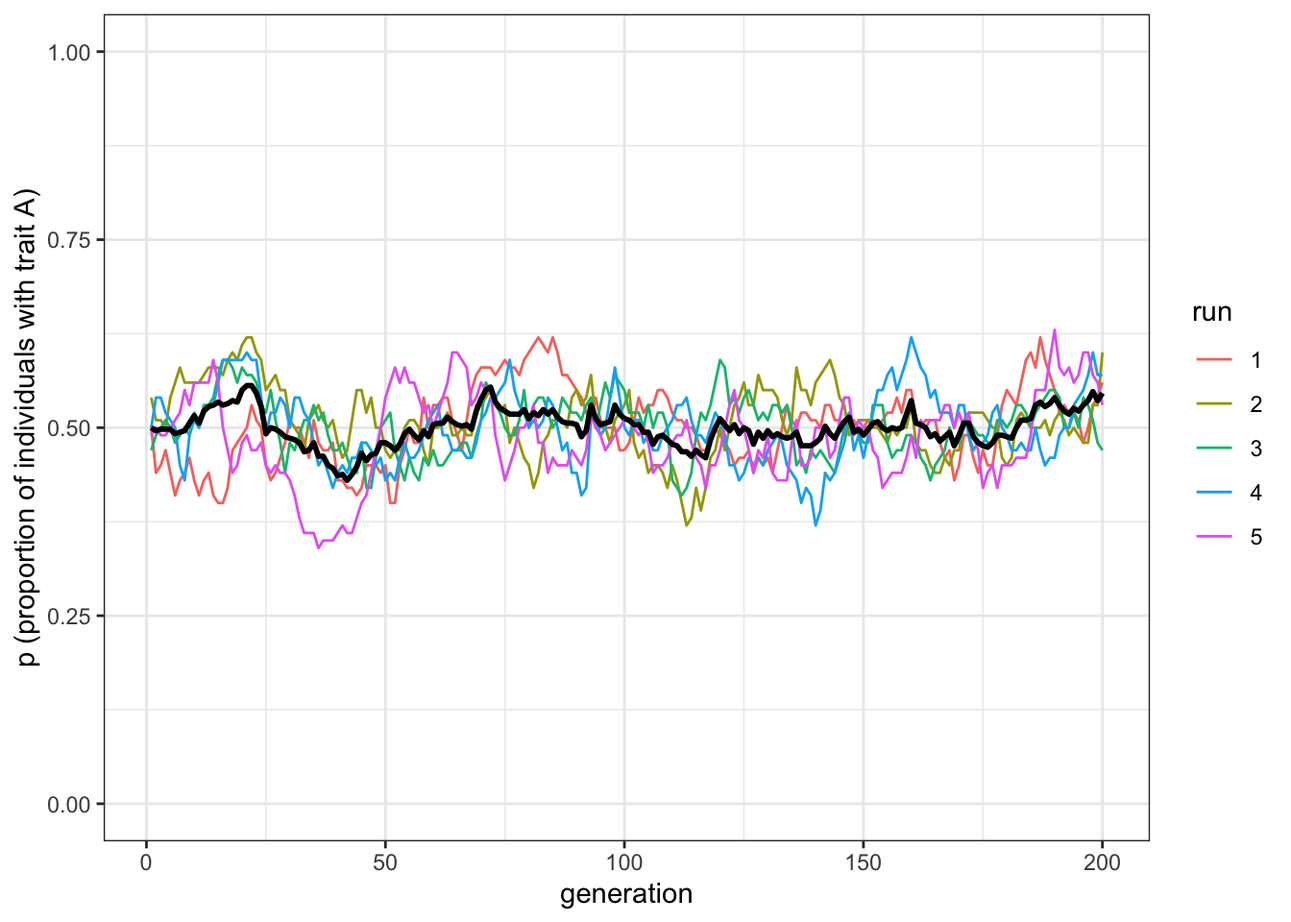
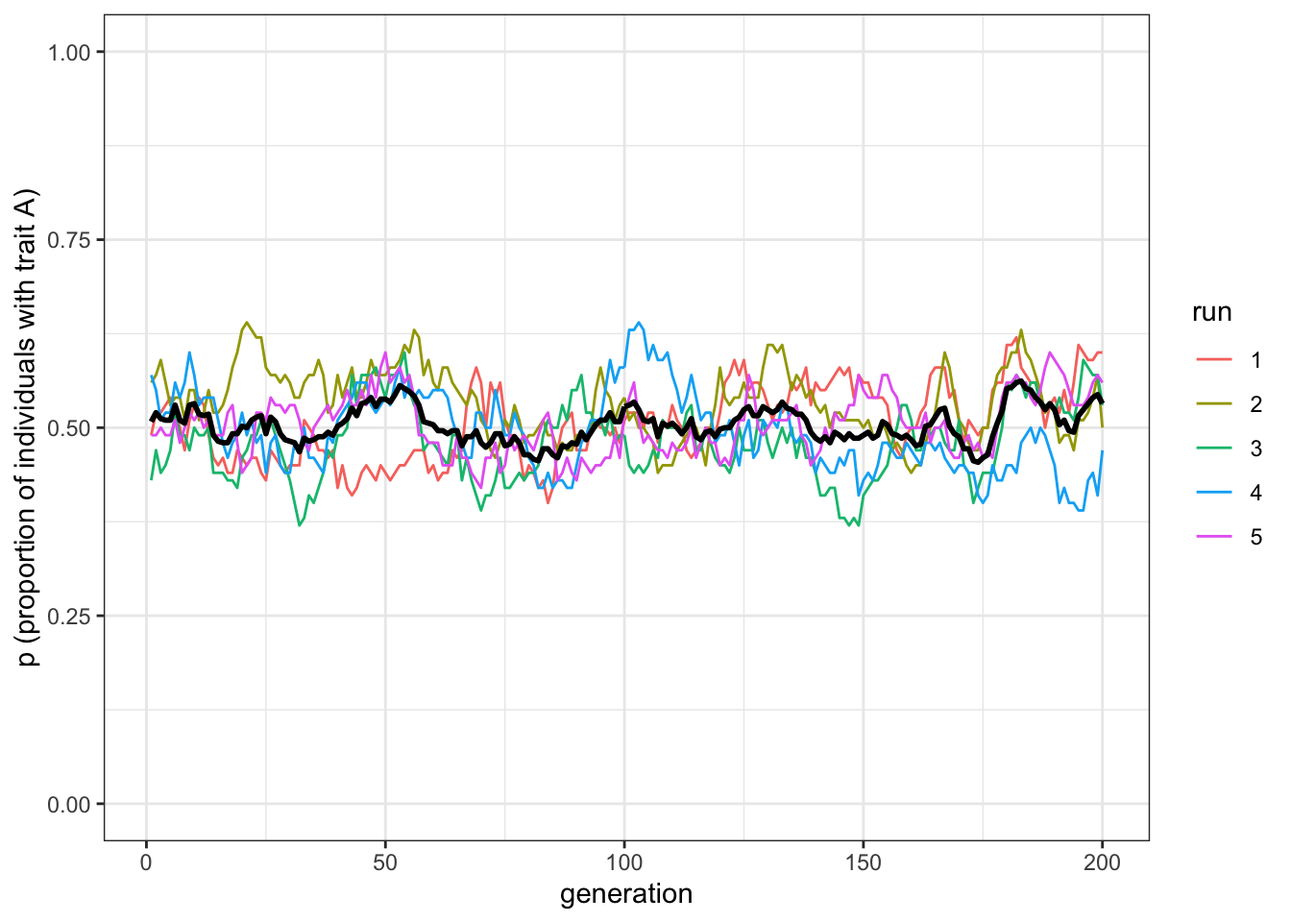
chapter 2 done

Changed region(s): [[0.0938, 0.3438, 0.875, 0.5938]]

diff --git a/_book/unbiased-and-biased-mutation.html b/_book/unbiased-and-biased-mutation.html
@@ -4,11 +4,11 @@
 
   <meta charset="utf-8" />
   <meta http-equiv="X-UA-Compatible" content="IE=edge" />
-  <title>2 Unbiased and biased mutation | Individual-based models of cultural evolution</title>
+  <title>1 Unbiased and biased mutation | Individual-based models of cultural evolution</title>
   <meta name="description" content="A minimal working structure for the book" />
   <meta name="generator" content="bookdown 0.11 and GitBook 2.6.7" />
 
-  <meta property="og:title" content="2 Unbiased and biased mutation | Individual-based models of cultural evolution" />
+  <meta property="og:title" content="1 Unbiased and biased mutation | Individual-based models of cultural evolution" />
   <meta property="og:type" content="book" />
   
   
@@ -16,7 +16,7 @@
   
 
   <meta name="twitter:card" content="summary" />
-  <meta name="twitter:title" content="2 Unbiased and biased mutation | Individual-based models of cultural evolution" />
+  <meta name="twitter:title" content="1 Unbiased and biased mutation | Individual-based models of cultural evolution" />
   
   <meta name="twitter:description" content="A minimal working structure for the book" />
   
@@ -33,7 +33,7 @@
   <meta name="apple-mobile-web-app-status-bar-style" content="black" />
   
   
-<link rel="prev" href="unbiased-transmission.html">
+<link rel="prev" href="index.html">
 <link rel="next" href="biased-transmission-directcontent-bias.html">
 <script src="libs/jquery-2.2.3/jquery.min.js"></script>
 <link href="libs/gitbook-2.6.7/css/style.css" rel="stylesheet" />
@@ -106,30 +106,29 @@ code > span.in { color: #60a0b0; font-weight: bold; font-style: italic; } /* Inf
 
 <li class="divider"></li>
 <li class="chapter" data-level="" data-path="index.html"><a href="index.html"><i class="fa fa-check"></i>Introduction</a></li>
-<li class="part"><span><b>Basics</b></span></li>
-<li class="chapter" data-level="1" data-path="unbiased-transmission.html"><a href="unbiased-transmission.html"><i class="fa fa-check"></i><b>1</b> Unbiased transmission</a><ul>
-<li class="chapter" data-level="1.1" data-path="unbiased-transmission.html"><a href="unbiased-transmission.html#initialising-the-simulation"><i class="fa fa-check"></i><b>1.1</b> Initialising the simulation</a></li>
-<li class="chapter" data-level="1.2" data-path="unbiased-transmission.html"><a href="unbiased-transmission.html#execute-generation-turn-over-many-times"><i class="fa fa-check"></i><b>1.2</b> Execute generation turn-over many times</a></li>
-<li class="chapter" data-level="1.3" data-path="unbiased-transmission.html"><a href="unbiased-transmission.html#plotting-the-model-results"><i class="fa fa-check"></i><b>1.3</b> Plotting the model results</a></li>
-<li class="chapter" data-level="1.4" data-path="unbiased-transmission.html"><a href="unbiased-transmission.html#write-a-function-to-wrap-the-model-code"><i class="fa fa-check"></i><b>1.4</b> Write a function to wrap the model code</a></li>
-<li class="chapter" data-level="1.5" data-path="unbiased-transmission.html"><a href="unbiased-transmission.html#run-several-independent-simulations-and-plot-their-results"><i class="fa fa-check"></i><b>1.5</b> Run several independent simulations and plot their results</a></li>
-<li class="chapter" data-level="1.6" data-path="unbiased-transmission.html"><a href="unbiased-transmission.html#varying-initial-conditions"><i class="fa fa-check"></i><b>1.6</b> Varying initial conditions</a></li>
-<li class="chapter" data-level="1.7" data-path="unbiased-transmission.html"><a href="unbiased-transmission.html#summary-of-the-model"><i class="fa fa-check"></i><b>1.7</b> Summary of the model</a></li>
-<li class="chapter" data-level="1.8" data-path="unbiased-transmission.html"><a href="unbiased-transmission.html#analytical-appendix"><i class="fa fa-check"></i><b>1.8</b> Analytical appendix</a></li>
+<li class="part"><span><b>Basics</b></span><ul>
+<li class="chapter" data-level="0.1" data-path="index.html"><a href="index.html#initialising-the-simulation"><i class="fa fa-check"></i><b>0.1</b> Initialising the simulation</a></li>
+<li class="chapter" data-level="0.2" data-path="index.html"><a href="index.html#execute-generation-turn-over-many-times"><i class="fa fa-check"></i><b>0.2</b> Execute generation turn-over many times</a></li>
+<li class="chapter" data-level="0.3" data-path="index.html"><a href="index.html#plotting-the-model-results"><i class="fa fa-check"></i><b>0.3</b> Plotting the model results</a></li>
+<li class="chapter" data-level="0.4" data-path="index.html"><a href="index.html#write-a-function-to-wrap-the-model-code"><i class="fa fa-check"></i><b>0.4</b> Write a function to wrap the model code</a></li>
+<li class="chapter" data-level="0.5" data-path="index.html"><a href="index.html#run-several-independent-simulations-and-plot-their-results"><i class="fa fa-check"></i><b>0.5</b> Run several independent simulations and plot their results</a></li>
+<li class="chapter" data-level="0.6" data-path="index.html"><a href="index.html#varying-initial-conditions"><i class="fa fa-check"></i><b>0.6</b> Varying initial conditions</a></li>
+<li class="chapter" data-level="0.7" data-path="index.html"><a href="index.html#summary-of-the-model"><i class="fa fa-check"></i><b>0.7</b> Summary of the model</a></li>
+<li class="chapter" data-level="0.8" data-path="index.html"><a href="index.html#analytical-appendix"><i class="fa fa-check"></i><b>0.8</b> Analytical appendix</a></li>
 </ul></li>
-<li class="chapter" data-level="2" data-path="unbiased-and-biased-mutation.html"><a href="unbiased-and-biased-mutation.html"><i class="fa fa-check"></i><b>2</b> Unbiased and biased mutation</a><ul>
-<li class="chapter" data-level="2.1" data-path="unbiased-and-biased-mutation.html"><a href="unbiased-and-biased-mutation.html#unbiased-mutation"><i class="fa fa-check"></i><b>2.1</b> Unbiased mutation</a></li>
-<li class="chapter" data-level="2.2" data-path="unbiased-and-biased-mutation.html"><a href="unbiased-and-biased-mutation.html#biased-mutation"><i class="fa fa-check"></i><b>2.2</b> Biased mutation</a></li>
-<li class="chapter" data-level="2.3" data-path="unbiased-and-biased-mutation.html"><a href="unbiased-and-biased-mutation.html#summary-of-the-model-1"><i class="fa fa-check"></i><b>2.3</b> Summary of the model</a></li>
-<li class="chapter" data-level="2.4" data-path="unbiased-and-biased-mutation.html"><a href="unbiased-and-biased-mutation.html#analytical-appendix-1"><i class="fa fa-check"></i><b>2.4</b> Analytical appendix</a></li>
+<li class="chapter" data-level="1" data-path="unbiased-and-biased-mutation.html"><a href="unbiased-and-biased-mutation.html"><i class="fa fa-check"></i><b>1</b> Unbiased and biased mutation</a><ul>
+<li class="chapter" data-level="1.1" data-path="unbiased-and-biased-mutation.html"><a href="unbiased-and-biased-mutation.html#unbiased-mutation"><i class="fa fa-check"></i><b>1.1</b> Unbiased mutation</a></li>
+<li class="chapter" data-level="1.2" data-path="unbiased-and-biased-mutation.html"><a href="unbiased-and-biased-mutation.html#biased-mutation"><i class="fa fa-check"></i><b>1.2</b> Biased mutation</a></li>
+<li class="chapter" data-level="1.3" data-path="unbiased-and-biased-mutation.html"><a href="unbiased-and-biased-mutation.html#summary-of-the-model-1"><i class="fa fa-check"></i><b>1.3</b> Summary of the model</a></li>
+<li class="chapter" data-level="1.4" data-path="unbiased-and-biased-mutation.html"><a href="unbiased-and-biased-mutation.html#analytical-appendix-1"><i class="fa fa-check"></i><b>1.4</b> Analytical appendix</a></li>
 </ul></li>
-<li class="chapter" data-level="3" data-path="biased-transmission-directcontent-bias.html"><a href="biased-transmission-directcontent-bias.html"><i class="fa fa-check"></i><b>3</b> Biased transmission (direct/content bias)</a><ul>
-<li class="chapter" data-level="3.1" data-path="biased-transmission-directcontent-bias.html"><a href="biased-transmission-directcontent-bias.html#summary-of-the-model-2"><i class="fa fa-check"></i><b>3.1</b> Summary of the model</a></li>
-<li class="chapter" data-level="3.2" data-path="biased-transmission-directcontent-bias.html"><a href="biased-transmission-directcontent-bias.html#analytical-appendix-2"><i class="fa fa-check"></i><b>3.2</b> Analytical appendix</a></li>
+<li class="chapter" data-level="2" data-path="biased-transmission-directcontent-bias.html"><a href="biased-transmission-directcontent-bias.html"><i class="fa fa-check"></i><b>2</b> Biased transmission (direct/content bias)</a><ul>
+<li class="chapter" data-level="2.1" data-path="biased-transmission-directcontent-bias.html"><a href="biased-transmission-directcontent-bias.html#summary-of-the-model-2"><i class="fa fa-check"></i><b>2.1</b> Summary of the model</a></li>
+<li class="chapter" data-level="2.2" data-path="biased-transmission-directcontent-bias.html"><a href="biased-transmission-directcontent-bias.html#analytical-appendix-2"><i class="fa fa-check"></i><b>2.2</b> Analytical appendix</a></li>
 </ul></li>
-<li class="chapter" data-level="4" data-path="biased-transmission-conformist-bias.html"><a href="biased-transmission-conformist-bias.html"><i class="fa fa-check"></i><b>4</b> Biased transmission (conformist bias)</a><ul>
-<li class="chapter" data-level="4.1" data-path="biased-transmission-conformist-bias.html"><a href="biased-transmission-conformist-bias.html#summary-of-model-4"><i class="fa fa-check"></i><b>4.1</b> Summary of Model 4</a></li>
-<li class="chapter" data-level="4.2" data-path="biased-transmission-conformist-bias.html"><a href="biased-transmission-conformist-bias.html#analytic-appendix"><i class="fa fa-check"></i><b>4.2</b> Analytic appendix</a></li>
+<li class="chapter" data-level="3" data-path="biased-transmission-conformist-bias.html"><a href="biased-transmission-conformist-bias.html"><i class="fa fa-check"></i><b>3</b> Biased transmission (conformist bias)</a><ul>
+<li class="chapter" data-level="3.1" data-path="biased-transmission-conformist-bias.html"><a href="biased-transmission-conformist-bias.html#summary-of-model-4"><i class="fa fa-check"></i><b>3.1</b> Summary of Model 4</a></li>
+<li class="chapter" data-level="3.2" data-path="biased-transmission-conformist-bias.html"><a href="biased-transmission-conformist-bias.html#analytic-appendix"><i class="fa fa-check"></i><b>3.2</b> Analytic appendix</a></li>
 </ul></li>
 <li class="divider"></li>
 <li><a href="https://github.com/rstudio/bookdown" target="blank">Published with bookdown</a></li>
@@ -152,16 +151,16 @@ code > span.in { color: #60a0b0; font-weight: bold; font-style: italic; } /* Inf
 
             <section class="normal" id="section-">
 <div id="unbiased-and-biased-mutation" class="section level1">
-<h1><span class="header-section-number">2</span> Unbiased and biased mutation</h1>
+<h1><span class="header-section-number">1</span> Unbiased and biased mutation</h1>
 <p>Evolution doesn’t work without a source of variation that introduces new variation upon which selection, drift and other processes can act. In genetic evolution, mutation is almost always blind with respect to function. Beneficial genetic mutations are no more likely to arise when they are needed than when they are not needed - in fact most genetic mutations are neutral or detrimental to an organism. Cultural evolution is more interesting, in that novel variation may sometimes be directed to solve specific problems, or systematically biased due to features of our cognition. In the models below we’ll simulate both unbiased and biased mutation.</p>
 <div id="unbiased-mutation" class="section level2">
-<h2><span class="header-section-number">2.1</span> Unbiased mutation</h2>
+<h2><span class="header-section-number">1.1</span> Unbiased mutation</h2>
 <p>First we will simulate unbiased mutation in the same basic model as used in the previous chapter. We’ll remove unbiased transmission to see the effect of unbiased mutation alone.</p>
-<p>As in the previous model, we assume <span class="math inline">\(N\)</span> individuals each of whom possesses one of two cultural traits, denoted <span class="math inline">\(A\)</span> and <span class="math inline">\(B\)</span>. In each generation from <span class="math inline">\(t = 1\)</span> to <span class="math inline">\(t = t_{\text{max}}\)</span>, the <span class="math inline">\(N\)</span> individuals are replaced with <span class="math inline">\(N\)</span> new individuals Instead of random copying, each individual now gives rise to a new individual with exactly the same cultural trait as them. (Another way of looking at this is in terms of timesteps, such as years: the same <span class="math inline">\(N\)</span> individual live for <span class="math inline">\(t_{\text{max}}\)</span> years, and keep their cultural trait from one year to the next.)</p>
-<p>Each generation, there is a probability <span class="math inline">\(\mu\)</span> that each individual mutates from their current trait to the other trait. This probability applies to each individual independently; whether an individual mutates has no bearing on whether or how many other individuals have mutated. On average, that means that <span class="math inline">\(\mu N\)</span> individuals mutate each generation. Like in the previous model, we are interested in tracking the proportion <span class="math inline">\(p\)</span> of agents with trait <span class="math inline">\(A\)</span> over time.</p>
-<p>We’ll wrap this in a function called <code>unbiased_mutation()</code>, using much of the same code as <code>unbiased_transmission_3()</code>. Now though we have an extra parameter, <span class="math inline">\(\mu\)</span>, to specify the probability of mutation. As before, we need to call the tidyverse library, and set a seed for the random number genrator, so the results will be exactly the same each time we rerun the code.</p>
+<p>As in the previous model, we assume <span class="math inline">\(N\)</span> individuals each of whom possesses one of two non-overlapping cultural traits, denoted <span class="math inline">\(A\)</span> and <span class="math inline">\(B\)</span>. In each generation, from <span class="math inline">\(t = 1\)</span> to <span class="math inline">\(t = t_{\text{max}}\)</span>, the <span class="math inline">\(N\)</span> individuals are replaced with <span class="math inline">\(N\)</span> new individuals. Instead of random copying, each individual now gives rise to a new individual with exactly the same cultural trait as them. (Another way of looking at this is in terms of timesteps, such as years: the same <span class="math inline">\(N\)</span> individual live for <span class="math inline">\(t_{\text{max}}\)</span> years, and keep their cultural trait from one year to the next.)</p>
+<p>At each generation, however, there is a probability <span class="math inline">\(\mu\)</span> that each individual mutates from their current trait to the other trait. Vegetarian individuals can decide to eat animal products, and vice versa. Remember, this is not copied from other individuals, as in the previous model, but can be thought as an individual decision. another way to say it, is that the probability of changing trait applies to each individual independently; whether an individual mutates has no bearing on whether or how many other individuals have mutated. On average, that means that <span class="math inline">\(\mu N\)</span> individuals mutate each generation. Like in the previous model, we are interested in tracking the proportion <span class="math inline">\(p\)</span> of agents with trait <span class="math inline">\(A\)</span> over time.</p>
+<p>We’ll wrap this in a function called <code>unbiased_mutation()</code>, using much of the same code as <code>unbiased_transmission_3()</code>. As before, we need to call the tidyverse library, and set a seed for the random number genrator, so the results will be exactly the same each time we rerun the code.</p>
 <div class="sourceCode"><pre class="sourceCode r"><code class="sourceCode r"><span class="kw">library</span>(tidyverse)
-<span class="kw">set.seed</span>(<span class="dv">100</span>)
+<span class="kw">set.seed</span>(<span class="dv">111</span>)
 
 unbiased_mutation &lt;-<span class="st"> </span><span class="cf">function</span>(N, mu, p_<span class="dv">0</span>, t_max, r_max) {
   output &lt;-<span class="st"> </span><span class="kw">tibble</span>(<span class="dt">generation =</span> <span class="kw">rep</span>(<span class="dv">1</span><span class="op">:</span>t_max, r_max), <span class="dt">p =</span> <span class="kw">rep</span>(<span class="ot">NA</span>, t_max <span class="op">*</span><span class="st"> </span>r_max), <span class="dt">run =</span> <span class="kw">as.factor</span>(<span class="kw">rep</span>(<span class="dv">1</span><span class="op">:</span>r_max, <span class="dt">each =</span> t_max))) <span class="co"># create the output tibble</span>
@@ -175,37 +174,37 @@ unbiased_mutation &lt;-<span class="st"> </span><span class="cf">function</span>
 
       mutate &lt;-<span class="st"> </span><span class="kw">sample</span>(<span class="kw">c</span>(<span class="ot">TRUE</span>, <span class="ot">FALSE</span>), N, <span class="dt">prob =</span> <span class="kw">c</span>(mu, <span class="dv">1</span> <span class="op">-</span><span class="st"> </span>mu), <span class="dt">replace =</span> <span class="ot">TRUE</span>) <span class="co"># find &#39;mutant&#39; individuals</span>
 
-      <span class="cf">if</span> (<span class="kw">nrow</span>(population[mutate <span class="op">&amp;</span><span class="st"> </span>previous_population<span class="op">$</span>trait <span class="op">==</span><span class="st"> &quot;A&quot;</span>, ]) <span class="op">&gt;</span><span class="st"> </span><span class="dv">0</span>) {
-        population[mutate <span class="op">&amp;</span><span class="st"> </span>previous_population<span class="op">$</span>trait <span class="op">==</span><span class="st"> &quot;A&quot;</span>, ]<span class="op">$</span>trait &lt;-<span class="st"> &quot;B&quot;</span> <span class="co"># if individual was A and mutates, flip to B</span>
+      <span class="cf">if</span> (<span class="kw">nrow</span>(population[mutate <span class="op">&amp;</span><span class="st"> </span>previous_population<span class="op">$</span>trait <span class="op">==</span><span class="st"> &quot;A&quot;</span>, ]) <span class="op">&gt;</span><span class="st"> </span><span class="dv">0</span>) { <span class="co"># if there are &#39;mutant&#39; from A to B</span>
+        population[mutate <span class="op">&amp;</span><span class="st"> </span>previous_population<span class="op">$</span>trait <span class="op">==</span><span class="st"> &quot;A&quot;</span>, ]<span class="op">$</span>trait &lt;-<span class="st"> &quot;B&quot;</span> <span class="co"># then flip them to B</span>
       }
 
-      <span class="cf">if</span> (<span class="kw">nrow</span>(population[mutate <span class="op">&amp;</span><span class="st"> </span>previous_population<span class="op">$</span>trait <span class="op">==</span><span class="st"> &quot;B&quot;</span>, ]) <span class="op">&gt;</span><span class="st"> </span><span class="dv">0</span>) {
-        population[mutate <span class="op">&amp;</span><span class="st"> </span>previous_population<span class="op">$</span>trait <span class="op">==</span><span class="st"> &quot;B&quot;</span>, ]<span class="op">$</span>trait &lt;-<span class="st"> &quot;A&quot;</span> <span class="co"># if individual was B and mutates, flip to A</span>
+      <span class="cf">if</span> (<span class="kw">nrow</span>(population[mutate <span class="op">&amp;</span><span class="st"> </span>previous_population<span class="op">$</span>trait <span class="op">==</span><span class="st"> &quot;B&quot;</span>, ]) <span class="op">&gt;</span><span class="st"> </span><span class="dv">0</span>) { <span class="co"># if there are &#39;mutant&#39; from B to A</span>
+        population[mutate <span class="op">&amp;</span><span class="st"> </span>previous_population<span class="op">$</span>trait <span class="op">==</span><span class="st"> &quot;B&quot;</span>, ]<span class="op">$</span>trait &lt;-<span class="st"> &quot;A&quot;</span> <span class="co"># then flip them to A</span>
       }
       output[output<span class="op">$</span>generation <span class="op">==</span><span class="st"> </span>t <span class="op">&amp;</span><span class="st"> </span>output<span class="op">$</span>run <span class="op">==</span><span class="st"> </span>r, ]<span class="op">$</span>p &lt;-<span class="st"> </span><span class="kw">sum</span>(population<span class="op">$</span>trait <span class="op">==</span><span class="st"> &quot;A&quot;</span>) <span class="op">/</span><span class="st"> </span>N <span class="co"># get p and put it into output slot for this generation t and run r</span>
     }
   }
   output <span class="co"># export data from function</span>
 }</code></pre></div>
-<p>The only changes from the previous model are the addition of <span class="math inline">\(\mu\)</span> in the function definition and new lines of code within the <code>for</code> loop on <span class="math inline">\(t\)</span> which replace the random copying command with unbiased mutation. Let’s examine these lines to see how they work.</p>
-<p>The most obvious way of implementing unbiased mutation - which is not done above - would have been to set up another <code>for</code> loop. We would cycle through each individual one by one, each time calculating whether it should mutate or not based on <span class="math inline">\(mu\)</span>. This would certainly work, but R is notoriously slow at loops. It’s always preferable in R, where possible, to use ‘vectorised’ code. That’s what is done above in our three added lines.</p>
-<p>Thus, we pre-specify the probability of mutating for each individual For that, we use again the function <code>sample()</code>, picking <span class="math inline">\(TRUE\)</span> (corresponding to be a mutant) or <span class="math inline">\(FALSE\)</span> (keeping the same cultural trait) for <span class="math inline">\(N\)</span> times. The draw, however, is not random: the probability of drawing <span class="math inline">\(TRUE\)</span> is equal to <span class="math inline">\(\mu\)</span>, and the probability to draw <span class="math inline">\(FALSE\)</span> is <span class="math inline">\(1-\mu\)</span>. You can think about the procedure in this way: each individual in the population flips a biased coin that has <span class="math inline">\(\mu\)</span> probability to land on, say, head, and <span class="math inline">\(1-\mu\)</span> to land on tail. If it land on head they change their cultural trait.</p>
-<p>After that, in the following lines, we actually change the traits for the ‘mutant’ individuals. We need to check (using the <code>if</code> conditional) whether there are individuals that change their trait, both from “A” to “B” and viceversa. This is because if there are not individuals changing their traits, we are trying to assign a new value to an empty tibble, and we get an error. To check, we make sure that the number of rows is higher than 0 (using <code>nrow()&gt;0</code> within the <code>if</code>).</p>
-<p>To plot the results, we can use the same function <code>plot_multiple_runs()</code> we already wrote for the previous model.</p>
+<p>The only changes from the previous model are the addition of <span class="math inline">\(\mu\)</span>, the parameter that specifies the probability of mutation, in the function definition and new lines of code within the <code>for</code> loop on <span class="math inline">\(t\)</span> which replace the random copying command with unbiased mutation. Let’s examine these lines to see how they work.</p>
+<p>The most obvious way of implementing unbiased mutation - which is not done above - would have been to set up another <code>for</code> loop. We would cycle through each individual one by one, each time calculating whether it should mutate or not based on <span class="math inline">\(mu\)</span>. This would certainly work, but R is notoriously slow at loops. It’s always preferable in R, where possible, to use ‘vectorised’ code. That’s what is done above in our three added lines, starting from <code>mutate &lt;- sample()</code>.</p>
+<p>First, we pre-specify the probability of mutating for each individual For that, we use again the function <code>sample()</code>, picking <span class="math inline">\(TRUE\)</span> (corresponding to be a mutant) or <span class="math inline">\(FALSE\)</span> (keeping the same cultural trait) for <span class="math inline">\(N\)</span> times. The draw, however, is not random: the probability of drawing <span class="math inline">\(TRUE\)</span> is equal to <span class="math inline">\(\mu\)</span>, and the probability to draw <span class="math inline">\(FALSE\)</span> is <span class="math inline">\(1-\mu\)</span>. You can think about the procedure in this way: each individual in the population flips a biased coin that has <span class="math inline">\(\mu\)</span> probability to land on, say, head, and <span class="math inline">\(1-\mu\)</span> to land on tail. If it land on head they change their cultural trait.</p>
+<p>After that, in the following lines, we actually change the traits for the ‘mutant’ individuals. We need to check whether there are individuals that change their trait, both from <span class="math inline">\(A\)</span> to <span class="math inline">\(B\)</span> and viceversa, using the two <code>if</code> conditionals. This is because if there are not individuals changing their traits, we are trying to assign a new value to an empty tibble, and we get an error. To check, we make sure that the number of rows is higher than 0 (using <code>nrow()&gt;0</code> within the <code>if</code>).</p>
+<p>To plot the results, we can use the same function <code>plot_multiple_runs()</code> we wrote in the previous chapter.</p>
 <p>Let’s now run and plot the model:</p>
 <div class="sourceCode"><pre class="sourceCode r"><code class="sourceCode r">data_model &lt;-<span class="st"> </span><span class="kw">unbiased_mutation</span>(<span class="dt">N =</span> <span class="dv">100</span>, <span class="dt">mu =</span> <span class="fl">0.05</span>, <span class="dt">p_0 =</span> <span class="fl">0.5</span>, <span class="dt">t_max =</span> <span class="dv">200</span>, <span class="dt">r_max =</span> <span class="dv">5</span>)
 <span class="kw">plot_multiple_runs</span>(data_model)</code></pre></div>
 <p><img src="_main_files/figure-html/2.3-1.png" width="672" /></p>
-<p>As one might expect, unbiased mutation produces random fluctuations over time, and does not alter the overall frequency of <span class="math inline">\(A\)</span> which stays around <span class="math inline">\(p = 0.5\)</span>. Because mutations from <span class="math inline">\(A\)</span> to <span class="math inline">\(B\)</span> are as equally likely as <span class="math inline">\(B\)</span> to <span class="math inline">\(A\)</span>, there is no overall directional trend.</p>
-<p>But what if we were to start at different initial frequencies of <span class="math inline">\(A\)</span> and <span class="math inline">\(B\)</span>? Say, <span class="math inline">\(p=0.2\)</span> or <span class="math inline">\(p=0.9\)</span>? Would unbiased mutation keep <span class="math inline">\(p\)</span> at these initial values, like we saw unbiased transmission does in Model 1?</p>
+<p>Unbiased mutation produces random fluctuations over time, and does not alter the overall frequency of <span class="math inline">\(A\)</span>, which stays around <span class="math inline">\(p = 0.5\)</span>. Because mutations from <span class="math inline">\(A\)</span> to <span class="math inline">\(B\)</span> are as equally likely as <span class="math inline">\(B\)</span> to <span class="math inline">\(A\)</span>, there is no overall directional trend. If you remember from the previous chapter, with unbiased transmission, instead, when populations where small generally one of the trait was disappearing after some generations. Why this difference? You can think it in this way: when one trait becomes popular, say the frequency of <span class="math inline">\(A\)</span> is equal to <span class="math inline">\(0.8\)</span>, with unbiased transmission it is more likely that individuals of the new generation will pick up randomly <span class="math inline">\(A\)</span> when copying. The few individuals will trait <span class="math inline">\(B\)</span> will have 80% of probability to copy <span class="math inline">\(A\)</span>. With unbiased mutation, instead, since <span class="math inline">\(\mu\)</span> is applied independently to each individual, when <span class="math inline">\(A\)</span> is popular there will be more individuals that will flip to <span class="math inline">\(B\)</span> (namely, <span class="math inline">\(\mu p N\)</span>, in our case 4) than individual that will flip to <span class="math inline">\(A\)</span> (<span class="math inline">\(\mu (1-p) N\)</span>, in our case 1) keeping the traits at similar freuqencies.</p>
+<p>But what if we were to start at different initial frequencies of <span class="math inline">\(A\)</span> and <span class="math inline">\(B\)</span>? Say, <span class="math inline">\(p=0.1\)</span> and <span class="math inline">\(p=0.9\)</span>? Would <span class="math inline">\(A\)</span> disappear? Would unbiased mutation keep <span class="math inline">\(p\)</span> at these initial values, like we saw unbiased transmission does in Model 1?</p>
 <p>To find out, let’s change <span class="math inline">\(p_0\)</span>, which, as you may recall, specifies the initial probability of drawing an <span class="math inline">\(A\)</span> rather than a <span class="math inline">\(B\)</span> in the first generation.</p>
-<div class="sourceCode"><pre class="sourceCode r"><code class="sourceCode r">data_model &lt;-<span class="st"> </span><span class="kw">unbiased_mutation</span>(<span class="dt">N =</span> <span class="dv">1000</span>, <span class="dt">mu =</span> <span class="fl">0.05</span>, <span class="dt">p_0 =</span> <span class="fl">0.1</span>, <span class="dt">t_max =</span> <span class="dv">200</span>, <span class="dt">r_max =</span> <span class="dv">5</span>)
+<div class="sourceCode"><pre class="sourceCode r"><code class="sourceCode r">data_model &lt;-<span class="st"> </span><span class="kw">unbiased_mutation</span>(<span class="dt">N =</span> <span class="dv">100</span>, <span class="dt">mu =</span> <span class="fl">0.05</span>, <span class="dt">p_0 =</span> <span class="fl">0.1</span>, <span class="dt">t_max =</span> <span class="dv">200</span>, <span class="dt">r_max =</span> <span class="dv">5</span>)
 <span class="kw">plot_multiple_runs</span>(data_model)</code></pre></div>
 <p><img src="_main_files/figure-html/2.4-1.png" width="672" /></p>
-<p>You should see <span class="math inline">\(p\)</span> go from 0.1 up to 0.5. In fact, whatever the initial starting frequencies of <span class="math inline">\(A\)</span> and <span class="math inline">\(B\)</span>, unbiased mutation always leads to <span class="math inline">\(p = 0.5\)</span>. Unlike the unbiased transmission simulated in Model 1, with unbiased mutation it is impossible for one trait to be lost and the other go to fixation. Why is that the case? A way to think about it is that, whereas the probability to mutate is the same in both directions, the more <span class="math inline">\(A\)</span>s there are in the population, the more likely they will be picked to become <span class="math inline">\(B\)</span>s and viceversa, so that unbiased mutation always tends to balance the proportion of <span class="math inline">\(A\)</span>s and <span class="math inline">\(B\)</span>s.</p>
+<p>You should see <span class="math inline">\(p\)</span> go from 0.1 up to 0.5. In fact, whatever the initial starting frequencies of <span class="math inline">\(A\)</span> and <span class="math inline">\(B\)</span>, unbiased mutation always leads to <span class="math inline">\(p = 0.5\)</span>, for the reason explained above: unbiased mutation always tends to balance the proportion of <span class="math inline">\(A\)</span>s and <span class="math inline">\(B\)</span>s.</p>
 </div>
 <div id="biased-mutation" class="section level2">
-<h2><span class="header-section-number">2.2</span> Biased mutation</h2>
+<h2><span class="header-section-number">1.2</span> Biased mutation</h2>
 <p>A more interesting case is biased mutation. Let’s assume now that there is a probability <span class="math inline">\(\mu_b\)</span> that an individual with trait <span class="math inline">\(B\)</span> mutates into <span class="math inline">\(A\)</span>, but there is no possibility of trait <span class="math inline">\(A\)</span> mutating into trait <span class="math inline">\(B\)</span>. Perhaps trait <span class="math inline">\(A\)</span> is a particularly catchy or memorable version of a story, or an intuitive explanation of a phenomenon, and <span class="math inline">\(B\)</span> is difficult to remember or unintuitive.</p>
 <p>The function <code>biased_mutation()</code> captures this unidirectional mutation.</p>
 <div class="sourceCode"><pre class="sourceCode r"><code class="sourceCode r">biased_mutation &lt;-<span class="st"> </span><span class="cf">function</span>(N, mu_b, p_<span class="dv">0</span>, t_max, r_max) {
@@ -245,14 +244,14 @@ unbiased_mutation &lt;-<span class="st"> </span><span class="cf">function</span>
 <hr />
 </div>
 <div id="summary-of-the-model-1" class="section level2">
-<h2><span class="header-section-number">2.3</span> Summary of the model</h2>
+<h2><span class="header-section-number">1.3</span> Summary of the model</h2>
 <p>With this simple model we can draw the following insights. Unbiased mutation, which resembles genetic mutation in being non-directional, always leads to an equal mix of the two traits. It introduces and maintains cultural variation in the population. It is interesting to compare unbiased mutation to unbiased transmission from Model 1. While unbiased transmission did not change <span class="math inline">\(p\)</span> over time, unbiased mutation always converges on <span class="math inline">\(p^* = 0.5\)</span>, irrespective of the starting frequency. (NB <span class="math inline">\(p^* = 0.5\)</span> assuming there are two traits; more generally, <span class="math inline">\(p^* = 1/v\)</span>, where <span class="math inline">\(v\)</span> is the number of traits.)</p>
 <p>Biased mutation, which is far more common - perhaps even typical - in cultural evolution, shows different dynamics. Novel traits favoured by biased mutation spread in a characteristic fashion - an r-shaped diffusion curve - with a speed characterised by the mutation rate <span class="math inline">\(\mu_b\)</span>. Population size has little effect, whether <span class="math inline">\(N = 100\)</span> or <span class="math inline">\(N = 10000\)</span>. Whenever biased mutation is present (<span class="math inline">\(\mu_b &gt; 0\)</span>), the favoured trait goes to fixation, even if it is not initially present.</p>
 <p>In terms of programming techniques, the major novelty in Model 2 is the use of <code>sample()</code> to determine which individuals should undergo whatever the fixed probability specifies (in our case, mutation). This could be done with a loop, but vectorising code in the way we did here is much faster in R than loops.</p>
 <hr />
 </div>
 <div id="analytical-appendix-1" class="section level2">
-<h2><span class="header-section-number">2.4</span> Analytical appendix</h2>
+<h2><span class="header-section-number">1.4</span> Analytical appendix</h2>
 <p>If <span class="math inline">\(p\)</span> is the frequency of <span class="math inline">\(A\)</span> in one generation, we are interested in calculating <span class="math inline">\(p&#39;\)</span>, the frequency of <span class="math inline">\(A\)</span> in the next generation under the assumption of unbiased mutation. The next generation retains the cultural traits of the previous generation, except that <span class="math inline">\(\mu\)</span> of them switch to the other trait. There are therefore two sources of <span class="math inline">\(A\)</span> in the next generation: members of the previous generation who had <span class="math inline">\(A\)</span> and didn’t mutate, therefore staying <span class="math inline">\(A\)</span>, and members of the previous generation who had <span class="math inline">\(B\)</span> and did mutate, therefore switching to <span class="math inline">\(A\)</span>. The frequency of <span class="math inline">\(A\)</span> in the next generation is therefore:</p>
 <p><span class="math display">\[p&#39; = p(1-\mu) + (1-p)\mu           \hspace{30 mm}(2.1)\]</span></p>
 <p>The first term on the right-hand side of Equation 2.1 represents the first group, the <span class="math inline">\((1 - \mu)\)</span> proportion of the <span class="math inline">\(p\)</span> <span class="math inline">\(A\)</span>-carriers who didn’t mutate. The second term represents the second group, the <span class="math inline">\(\mu\)</span> proportion of the <span class="math inline">\(1 - p\)</span> <span class="math inline">\(B\)</span>-carriers who did mutate.</p>
@@ -315,7 +314,7 @@ pop_analytical<span class="op">$</span>p[<span class="dv">1</span>] &lt;-<span c
           </div>
         </div>
       </div>
-<a href="unbiased-transmission.html" class="navigation navigation-prev " aria-label="Previous page"><i class="fa fa-angle-left"></i></a>
+<a href="index.html" class="navigation navigation-prev " aria-label="Previous page"><i class="fa fa-angle-left"></i></a>
 <a href="biased-transmission-directcontent-bias.html" class="navigation navigation-next " aria-label="Next page"><i class="fa fa-angle-right"></i></a>
     </div>
   </div>

diff --git a/material/TODO_chapters.md b/material/TODO_chapters.md
@@ -6,7 +6,7 @@
   * ~~remove references to R markdown features (e.g. "run this code using the green triangle...")~~ (AA)
   
 * 02-Unbiased_and_biased_mutation:
-  * remove references to R markdown features (AA)
+  * ~~remove references to R markdown features (AA)~~
   
 * 03-Biased_transmission_direct_content_bias:
   * everything - just copied from previous Alex's repository (AA)
